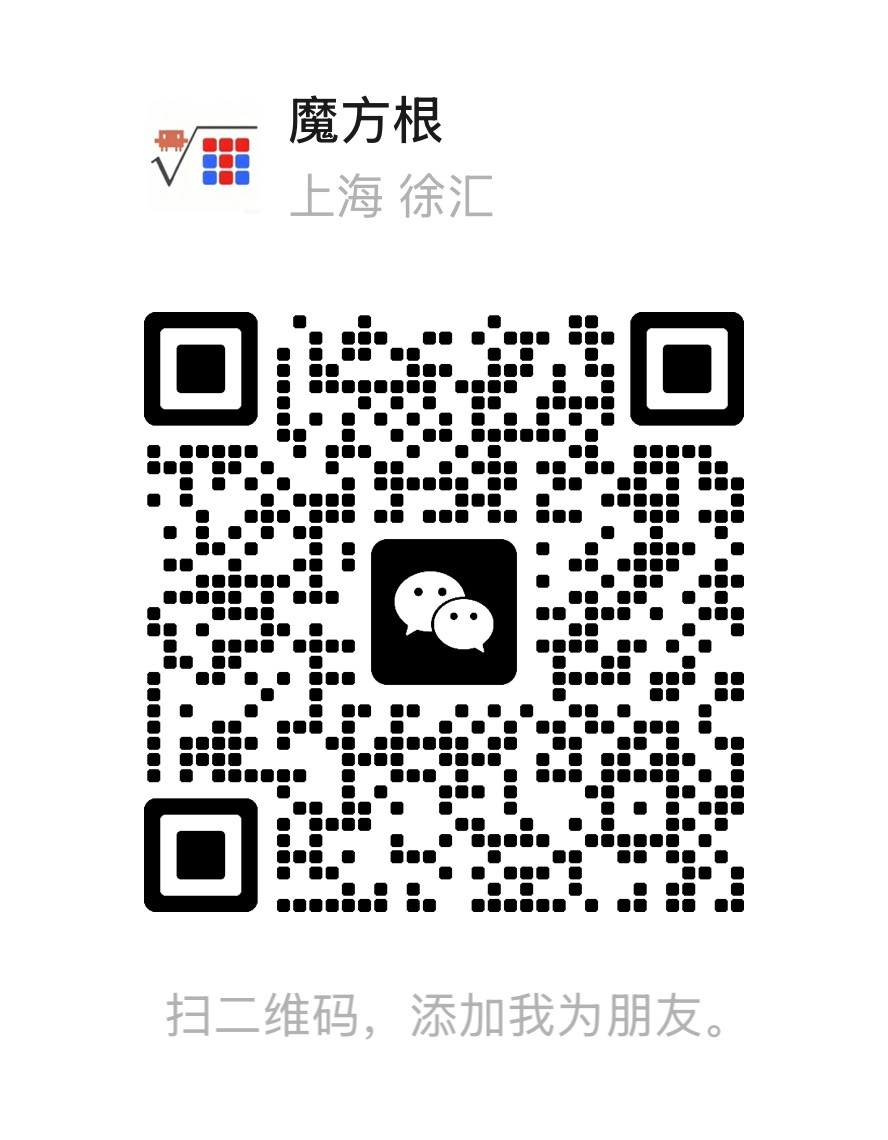
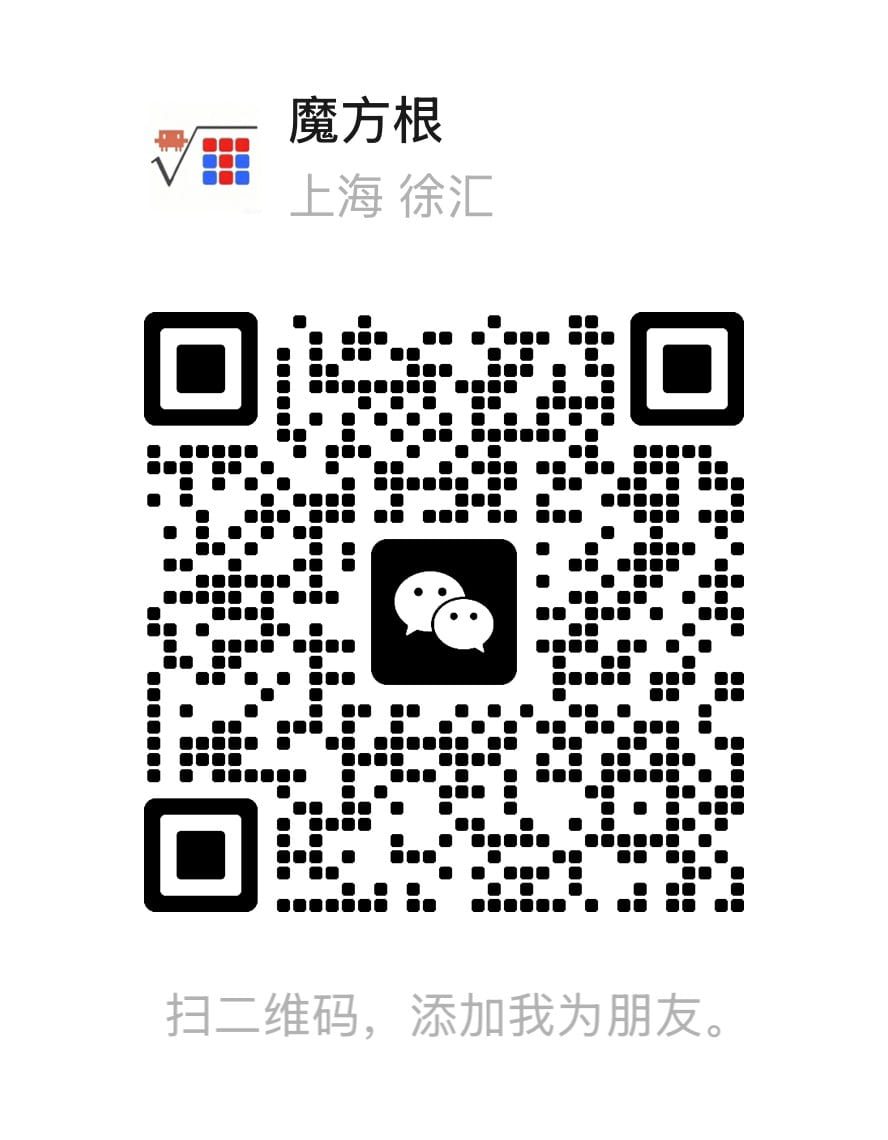
chore(miniprogram): optimize assets and add workflow skill

diff --git a/.agents/skills/miniprogram-dev/SKILL.md b/.agents/skills/miniprogram-dev/SKILL.md
@@ -1,0 +1,15 @@
+---
+name: miniprogram-dev
+description: Use when modifying or debugging the CubeRoot WeChat or Douyin Mini Program under core/apps/miniprogram, including WXML/WXSS, assets, build/dist, code-quality scans, platform adapters, upload, or release.
+---
+
+# 小程序开发
+
+- 在 `core/` 运行命令；源码在 `apps/miniprogram/src/`，静态资源在 `apps/miniprogram/assets/`，`dist/` 仅由构建生成，禁止手改。
+- 先复用现有组件、数据契约和平台适配器；小程序不得依赖 React DOM、Next 或另一 app 的源码。
+- WXML 表达式直接写 `&&` / `||`，禁止 HTML 实体。
+- 改源码、资源或构建脚本后运行 `pnpm --filter @cuberoot/miniprogram build`；改共享逻辑或双端适配时运行 `check:all`。
+- 改 WXML 后关闭微信开发者工具项目再重开，做干净编译。
+- 代码质量里的图片/音频 200KB 警告按构建后资源总量处理；优化真实源文件并重建，禁止只压 `dist/`，二维码必须保留可扫描性。
+- JS、WXML、WXSS 上传压缩属于开发者工具「详情 → 本地设置」，与图片/音频体积是两类检查，禁止混为一谈。
+- 构建成功不等于已上传、审核或发布；仅在真实完成对应步骤后声明完成。
